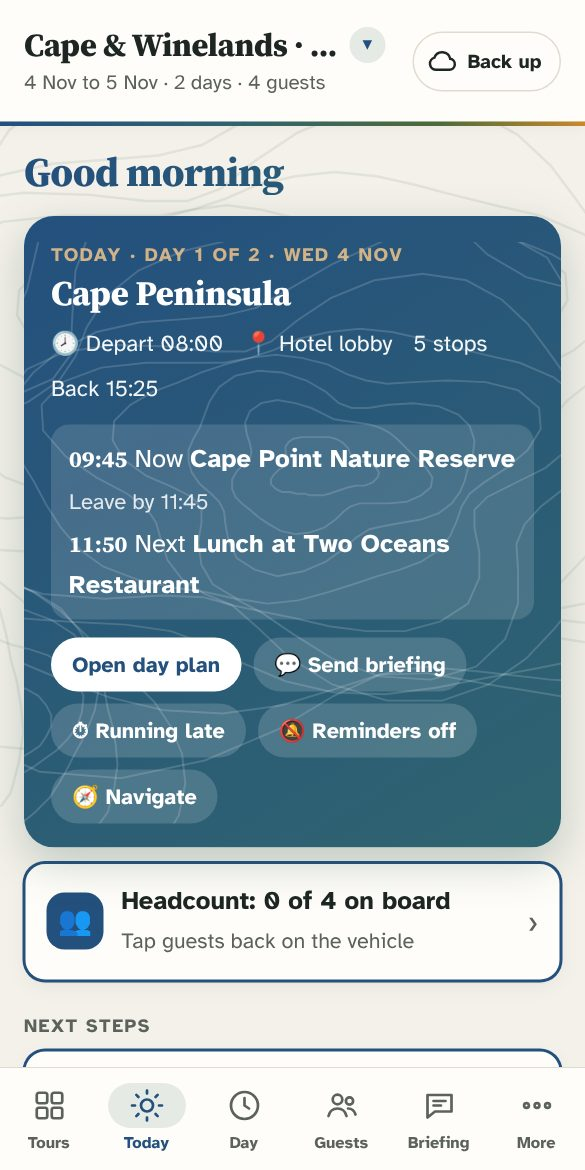
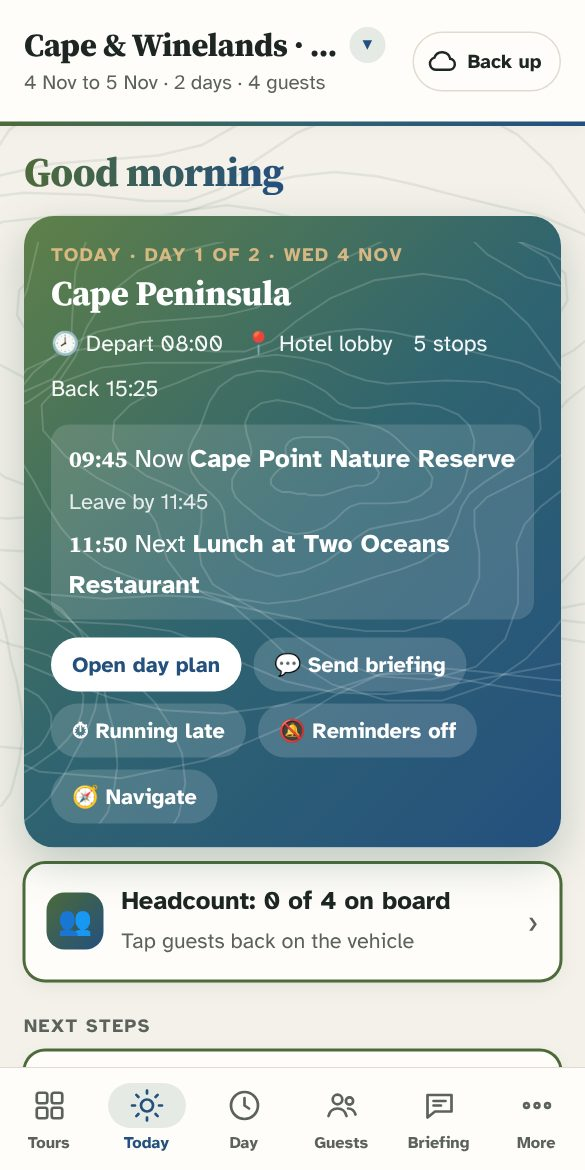
Fix: bush-to-sky colours applied; welcome on gradient panel (#14)
* Fix: old colour rules overrode bush to sky; hero, header line and headings now use the chosen palette; links in app blue; test for hero colours

Claude-Session: https://claude.ai/code/session_018UiXZK7UZvbaUVGs1HsDqT

* Welcome: 'Tomorrow, sorted.' sits on the bush-to-sky panel, like the Today card; test for it

Claude-Session: https://claude.ai/code/session_018UiXZK7UZvbaUVGs1HsDqT

---------

diff --git a/site/index.html b/site/index.html
@@ -73,6 +73,7 @@ nav button span{font-size:.68rem}
 :root{--bg:#f4f1ea;--surface:#fffdf9;--ink:#1d2622;--muted:#5b625c;--line:#dfdccf;--accent:#24507e;--accent-2:#2f6470;--brand:#24507e;--ochre:#4d6b3a;--soft:#e5ebe4;--sand:#f6ecd5;--game:#4d6b3a;--sky:#24507e;--info:#b8862b;--infoBg:#f6ecd5;--alert:#a3262a}
 body{background-image:url(topo-earth.svg)}
 header::after{background:linear-gradient(90deg,#4d6b3a,#2f6470 50%,#24507e)}
+a{color:var(--accent);text-underline-offset:2px}
 .hero{background:url(topo-w.svg) right -120px center/560px auto no-repeat,linear-gradient(135deg,#5f8048 0%,#2f6470 50%,#24507e 100%);box-shadow:0 10px 30px rgb(20 40 50 / .28)}
 .hero .when{color:#f0c48a;opacity:1}
 .hello{background-image:linear-gradient(90deg,#4d6b3a,#24507e)}
@@ -169,7 +170,7 @@ h2{letter-spacing:-.01em}
 .steps{display:grid;gap:8px}
 .step{display:flex;align-items:center;gap:12px;width:100%;text-align:left;background:var(--surface);border:1px solid var(--line);border-radius:var(--r);padding:12px 14px;font:inherit;color:inherit;cursor:pointer;box-shadow:var(--shadow)}
 .step .ic{flex:none;width:38px;height:38px;border-radius:12px;display:grid;place-items:center;background:var(--soft);font-size:1.15rem}
-.step.hot{border-color:var(--accent);box-shadow:0 0 0 1px var(--accent),var(--shadow)}
+.step.hot{border-color:#4d6b3a;box-shadow:0 0 0 1px #4d6b3a,var(--shadow)}
 .step.hot .ic{background:var(--accent);color:#fff}
 .step.warm .ic{background:var(--sand)}
 .step .tx{flex:1;min-width:0}
@@ -228,12 +229,12 @@ nav button svg{padding:3px 14px;box-sizing:content-box}
 :root{--sky:#2f6ea5;--game:#3f7a34;--plum:#7a4b8c;--rose:#b2465a}
 body{background:var(--bg) url(topo.svg) right -160px top 40px/720px auto no-repeat fixed}
 header{border-bottom:0;box-shadow:0 2px 12px rgb(15 26 21 / .06);background:linear-gradient(var(--surface),var(--surface)) padding-box}
-header::after{content:"";position:absolute;left:0;right:0;bottom:-3px;height:3px;background:linear-gradient(90deg,var(--accent),var(--accent-2) 40%,var(--ochre) 75%,#c98a2c)}
-.hero{background:url(topo-w.svg) right -120px center/560px auto no-repeat,linear-gradient(150deg,var(--accent) 0%,var(--accent-2) 100%)}
+header::after{content:"";position:absolute;left:0;right:0;bottom:-3px;height:3px;background:linear-gradient(90deg,#4d6b3a,#2f6470 50%,#24507e)}
+.hero{background:url(topo-w.svg) right -120px center/560px auto no-repeat,linear-gradient(135deg,#5f8048 0%,#2f6470 50%,#24507e 100%)}
 .hero::after{display:none}
-.hello{background:linear-gradient(90deg,var(--accent),var(--accent-2));-webkit-background-clip:text;background-clip:text;color:transparent}
+.hello{background:linear-gradient(90deg,#4d6b3a,#24507e);width:fit-content;max-width:100%;-webkit-background-clip:text;background-clip:text;color:transparent}
 .ic.c-brief{background:#e3f1ea}.ic.c-pack{background:var(--sand)}.ic.c-bday{background:#f8e3e7}.ic.c-food{background:#f6ead6}.ic.c-plan{background:#e3edf7}.ic.c-guest{background:#efe6f3}.ic.c-cloud{background:#e8eef0}
-.step.hot .ic{background:var(--accent)!important}
+.step.hot .ic{background:linear-gradient(135deg,#4d6b3a,#24507e)!important}
 .tile{position:relative;overflow:hidden}
 .tile .tic{width:38px;height:38px;border-radius:12px;display:grid;place-items:center;margin-bottom:6px}
 .tile .tic svg{margin:0;width:22px;height:22px}
@@ -284,8 +285,11 @@ header::after{content:"";position:absolute;left:0;right:0;bottom:-3px;height:3px
   #printOut .pbreak{page-break-before:always}
 }
 .onb{min-height:calc(100vh - 220px);display:grid;align-content:start;gap:12px;padding-top:10px}
-.onb .big{font:800 2rem/1.1 var(--display);letter-spacing:-.02em;margin:14px 0 0;background:linear-gradient(90deg,var(--accent),var(--accent-2));-webkit-background-clip:text;background-clip:text;color:transparent}
+.onb .big{font:800 2rem/1.1 var(--display);letter-spacing:-.02em;margin:14px 0 0;background:linear-gradient(90deg,#4d6b3a,#24507e);width:fit-content;max-width:100%;-webkit-background-clip:text;background-clip:text;color:transparent}
 .onb .lead{font-size:1.05rem;color:var(--muted);margin:0}
+.onb .intro{background:url(topo-w.svg) right -120px center/560px auto no-repeat,linear-gradient(135deg,#5f8048 0%,#2f6470 50%,#24507e 100%);color:#fff;border-radius:20px;padding:20px 18px;box-shadow:0 10px 30px rgb(20 40 50 / .28)}
+.onb .intro .big{background:none;color:#fff;-webkit-text-fill-color:#fff;margin:0 0 8px}
+.onb .intro .lead{color:#e8eef0}
 .onb .opt3{display:flex;gap:14px;align-items:center;text-align:left;width:100%;background:var(--surface);border:1px solid var(--line);border-radius:18px;padding:16px;box-shadow:var(--shadow);font:inherit;color:inherit;cursor:pointer}
 .onb .opt3 .n{flex:none;width:44px;height:44px;border-radius:14px;display:grid;place-items:center;font-size:1.4rem}
 .onb .opt3.pri{border-color:var(--accent);box-shadow:0 0 0 1px var(--accent),var(--shadow)}
@@ -630,8 +634,8 @@ setInterval(remindTick,30000);document.addEventListener('visibilitychange',()=>{
 /* ---------- First run: three ways in ---------- */
 const ONB='guidewise.onb';
 function renderWelcome(){
-  return `<div class="onb"><p class="big">Tomorrow, sorted.</p>
-  <p class="lead">Guidewise keeps your tour in your pocket: the day plan, guests, briefing, documents and cash, even with no signal.</p>
+  return `<div class="onb"><div class="intro"><p class="big">Tomorrow, sorted.</p>
+  <p class="lead">Guidewise keeps your tour in your pocket: the day plan, guests, briefing, documents and cash, even with no signal.</p></div>
   <button class="opt3 pri" data-onb="import"><span class="n" style="background:var(--accent);color:#fff">✦</span><span><b>Import my itinerary</b><span class="s">Itinerary, rooming list or recap: a ready tour in about a minute (Plus, 30 days free)</span></span></button>
   <button class="opt3" data-onb="new"><span class="n" style="background:#e3edf7">＋</span><span><b>Start a tour from scratch</b><span class="s">Add days, stops and guests yourself</span></span></button>
   <button class="opt3" data-onb="sample"><span class="n" style="background:var(--sand)">👀</span><span><b>Look around the sample tour</b><span class="s">A two-day Cape trip, to see how it works</span></span></button>

diff --git a/tests/smoke.js b/tests/smoke.js
@@ -16,11 +16,13 @@ const ok=(c,m)=>{console.log((c?'  ✓ ':'  ✗ ')+m);if(!c)fails++};
 
   console.log('First run');
   ok(await pg.evaluate(()=>tab)==='welcome','welcome shows on a fresh install');
+  ok(await pg.evaluate(()=>/rgb\(95, 128, 72\)/.test(getComputedStyle(document.querySelector('.onb .intro')).backgroundImage)),'welcome intro sits on the bush-to-sky panel');
   await pg.click('[data-onb="sample"]');ok(await pg.evaluate(()=>tab==='today'&&localStorage.getItem('guidewise.onb')==='1'),'explore opens Today and is remembered');
   await pg.reload();await pg.waitForTimeout(500);ok(await pg.evaluate(()=>tab==='home'),'app opens on Tours every time');
 
   console.log('Navigation');
   for(const t of ['home','today','plan','guests','brief','more'])await pg.click(`nav [data-tab=${t}]`),ok(await pg.evaluate(t=>tab===t,t),`bottom bar opens ${t}`);
+  await pg.evaluate(()=>{tab='today';render()});ok(await pg.evaluate(()=>/rgb\(95, 128, 72\)/.test(getComputedStyle(document.querySelector('.hero')).backgroundImage)),'Today hero uses the bush-to-sky colours');
   for(const t of ['pack','docs','intel','count','cash','late','report','venues','import','home','acct'])await pg.evaluate(t=>{tab=t;render()},t),ok(await pg.evaluate(()=>!!document.querySelector('#main').textContent.trim()),`${t} renders`);
 
   console.log('Day plan');

diff --git a/site/sw.js b/site/sw.js
@@ -1,4 +1,4 @@
-const C='tp-v38';const F=['./','index.html','backup.js','import.js','vendor/supabase-2.45.4.js','privacy.html','setup.html','guides.html','terms.html','manifest.webmanifest','icon-192.png','icon-512.png','topo.svg','topo-w.svg','topo-earth.svg'];
+const C='tp-v40';const F=['./','index.html','backup.js','import.js','vendor/supabase-2.45.4.js','privacy.html','setup.html','guides.html','terms.html','manifest.webmanifest','icon-192.png','icon-512.png','topo.svg','topo-w.svg','topo-earth.svg'];
 self.addEventListener('install',e=>{e.waitUntil(caches.open(C).then(c=>c.addAll(F)));self.skipWaiting()});
 self.addEventListener('activate',e=>{e.waitUntil(caches.keys().then(k=>Promise.all(k.filter(x=>x!==C).map(x=>caches.delete(x)))));self.clients.claim()});
 /* Own files: network first (so a new version shows at once when there is signal), saved copy when offline or slow.

diff --git a/CLAUDE.md b/CLAUDE.md
@@ -10,7 +10,7 @@ Tagline idea: "Guidewise. Tomorrow, sorted."
 ## Files
 - site/: everything public (Netlify publish dir, set in netlify.toml). Nothing outside site/ is served
 - site/index.html: whole app (vanilla JS, no build step)
-- site/sw.js: service worker. Bump cache name tp-vN on every front-end change (currently tp-v38; own files are fetched network-first, cache when offline). New precached files go in its F list
+- site/sw.js: service worker. Bump cache name tp-vN on every front-end change (currently tp-v40; own files are fetched network-first, cache when offline). New precached files go in its F list
 - site/backup.js: cloud backup (sign-in, POPIA consent, passphrase, encrypt, sync). Shares globals with index.html
 - site/import.js: AI import (tab 'import', from Tours > Import from documents or the Docs tab; can use documents already saved in the tour). Loaded after backup.js and uses its globals (sb, user, plan, plus, refresh, SB_URL, SB_KEY)
 - site/vendor/xlsx-mini-0.18.5.js: SheetJS (Apache-2.0), lazy-loaded by import.js for .xlsx/.csv
